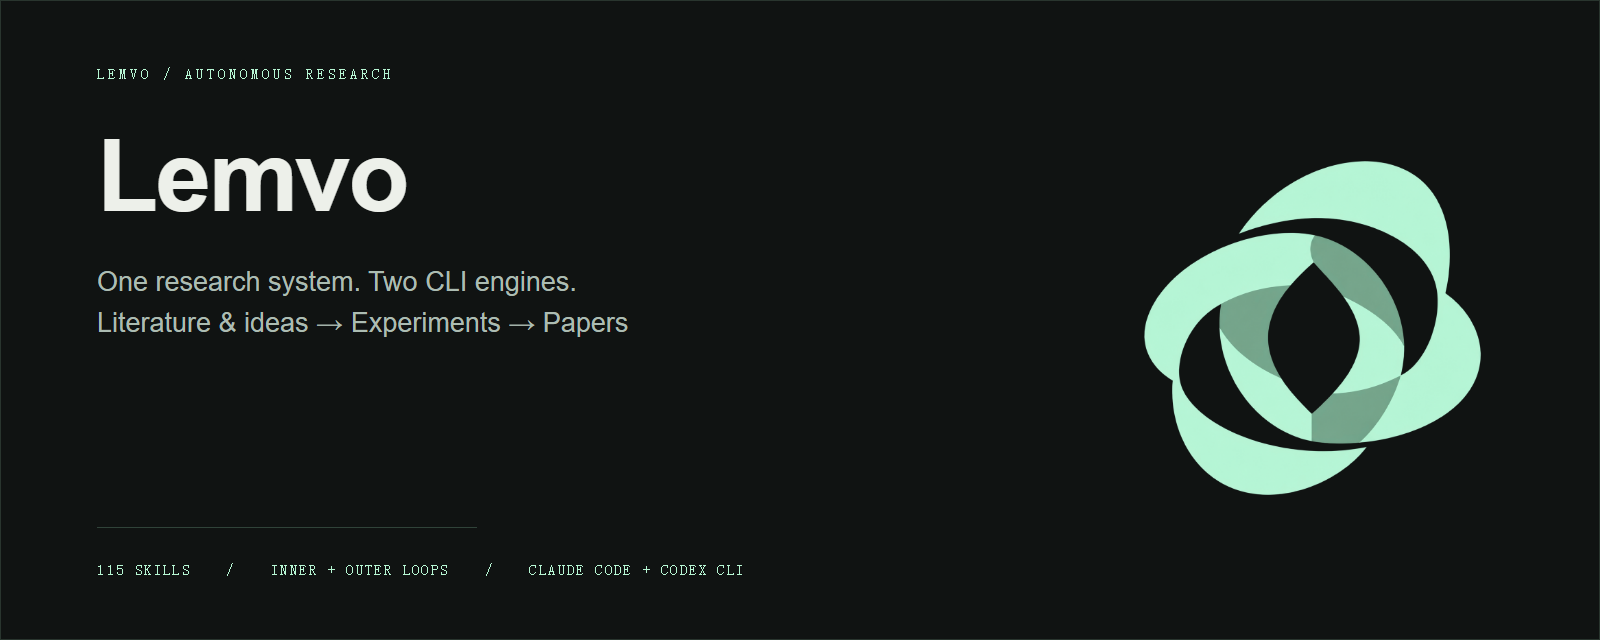
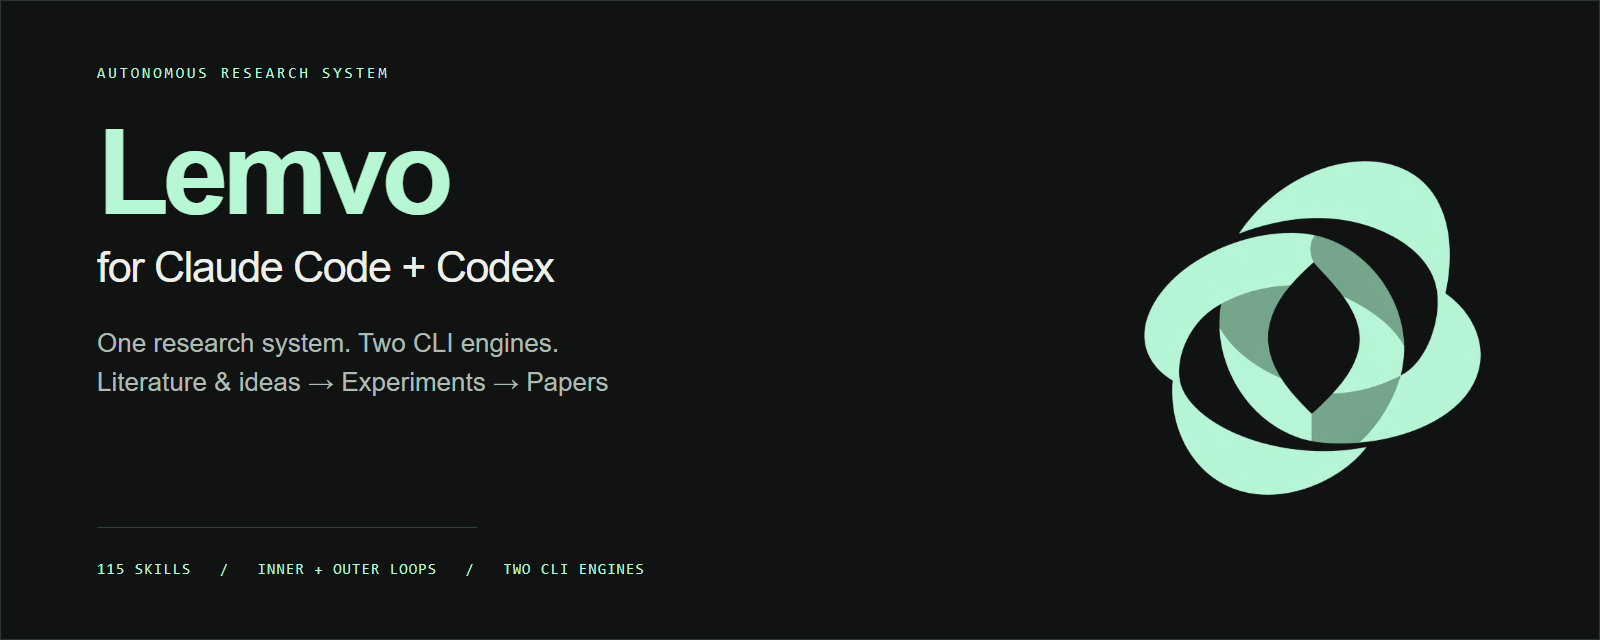
Make Lemvo the primary homepage and product brand

diff --git a/index.html b/index.html
@@ -5,27 +5,27 @@
   <meta name="theme-color" content="#101312">
   <meta name="description" content="Lemvo：一套自主科研体系，两种 CLI 引擎。115 个科研技能，由 Research Orchestrator 协调文献调研、构思、无人值守实验、写作与评审。">
   <meta property="og:title" content="Lemvo — One research system. Two CLI engines.">
-  <meta property="og:description" content="Lemvo powers Claude for Research and Codex for Research: 115 skills connecting literature, ideas, unattended experiments, reflection, and paper writing.">
+  <meta property="og:description" content="Lemvo for Claude Code and Lemvo for Codex share 115 skills connecting literature, ideas, unattended experiments, reflection, and paper writing.">
   <meta property="og:site_name" content="Lemvo">
   <meta property="og:type" content="website">
-  <meta property="og:image" content="https://yichen-zju.github.io/claude-for-research/assets/social-cover.png?v=lemvo-1">
+  <meta property="og:image" content="https://yichen-zju.github.io/claude-for-research/assets/social-cover.png?v=lemvo-primary-2">
   <meta property="og:image:alt" content="Lemvo — One research system. Two CLI engines. The mint dual-loop logo.">
   <meta property="og:image:width" content="1600">
   <meta property="og:image:height" content="640">
   <meta name="twitter:card" content="summary_large_image">
   <meta name="twitter:title" content="Lemvo — One research system. Two CLI engines.">
   <meta name="twitter:description" content="115 research skills. Nested experiment and reflection loops. Claude Code + Codex CLI.">
-  <meta name="twitter:image" content="https://yichen-zju.github.io/claude-for-research/assets/social-cover.png?v=lemvo-1">
+  <meta name="twitter:image" content="https://yichen-zju.github.io/claude-for-research/assets/social-cover.png?v=lemvo-primary-2">
   <meta name="twitter:image:alt" content="Lemvo autonomous research system with the mint dual-loop logo">
   <link rel="canonical" href="https://yichen-zju.github.io/claude-for-research/">
   <title>Lemvo · 让想法，走到发现</title>
   <link rel="icon" type="image/png" href="assets/logo.png">
   <link rel="stylesheet" href="styles.css">
-  <link rel="stylesheet" href="lemnivo-brand.css">
+  <link rel="stylesheet" href="lemvo-brand.css?v=2">
   <link rel="stylesheet" href="research-stages.css">
   <link rel="stylesheet" href="workflow-demo.css">
   <script src="skills-data.js" defer></script>
-  <script src="app.js" defer></script>
+  <script src="app.js?v=lemvo-primary-2" defer></script>
   <script src="workflow-demo.js" defer></script>
 </head>
 <body>
@@ -38,7 +38,8 @@
 <main id="main">
 <section class="hero container">
   <div class="hero-copy"><div class="eyebrow"><span class="status-dot"></span><span data-i18n="heroEyebrow">LEMVO / AUTONOMOUS RESEARCH</span></div>
-  <h1><span data-i18n="heroLine1">让想法，</span><br><span class="mint" data-i18n="heroLine2">走到发现。</span></h1>
+  <h1 class="hero-brand-name">Lemvo</h1>
+  <p class="hero-brand-promise" data-i18n="heroPromise">让想法，走到发现。</p>
   <p class="hero-sub" data-i18n="heroSub">一套自主科研体系，两种 CLI 引擎。</p>
   <p class="hero-description" data-i18n="heroDescription">Lemvo 把 Claude Code 与 Codex CLI 变成自主科研工作台。由 Research Orchestrator 统筹深广度调研、Idea 构思、无人值守模型优化，再到写作与评审；115 个科研技能贯穿实验与反思的内外双循环。</p>
   <div class="hero-actions"><a class="button primary" href="#start"><span data-i18n="getStarted">开始你的研究</span><span aria-hidden="true">↗</span></a><a class="text-link" href="#walkthrough"><span data-i18n="seeLoop">看一遍完整流程</span><span aria-hidden="true">↓</span></a></div>
@@ -134,7 +135,7 @@
 </section>
 <section class="section container" id="engines">
   <div class="section-heading"><div><div class="eyebrow section-number">04 / TWO ENGINES. ONE RESEARCH MINDSET.</div><h2 data-i18n="enginesTitle">选择你的引擎，延续你的研究。</h2></div><p data-i18n="enginesDescription">同源的科研约定与技能设计，分别适配两种 CLI。用熟悉的工具，组织一套完整的研究流程。</p></div>
-  <div class="engine-grid"><article class="engine-card"><div class="engine-icon">✳</div><div><span class="mono-label">LEMVO / CLAUDE CODE</span><h3>Claude for Research <span class="brand-suffix">(Lemvo)</span></h3><p data-i18n="claudeDescription">115 个技能与 4 个专业子代理。用 Claude Code 原生 Agent、技能与会话内心跳，串联研究、实验、写作与评审。</p><a href="https://github.com/Yichen-ZJU/claude-for-research" target="_blank" rel="noopener noreferrer"><span>claude-for-research</span><span>↗</span></a></div></article><article class="engine-card"><div class="engine-icon code-symbol">&gt;_</div><div><span class="mono-label">LEMVO / CODEX CLI</span><h3>Codex for Research <span class="brand-suffix">(Lemvo)</span></h3><p data-i18n="codexDescription">同样的 115 个技能，适配 Codex CLI 的执行方式。后台实验作业、完成标志与项目记忆衔接长任务。</p><a href="https://github.com/Yichen-ZJU/codex-for-research" target="_blank" rel="noopener noreferrer"><span>codex-for-research</span><span>↗</span></a></div></article></div>
+  <div class="engine-grid"><article class="engine-card"><div class="engine-icon">✳</div><div><span class="mono-label">LEMVO / CLAUDE CODE</span><h3><span class="product-brand">Lemvo</span><span class="engine-variant">for Claude Code</span></h3><p data-i18n="claudeDescription">115 个技能与 4 个专业子代理。用 Claude Code 原生 Agent、技能与会话内心跳，串联研究、实验、写作与评审。</p><a href="https://github.com/Yichen-ZJU/claude-for-research" target="_blank" rel="noopener noreferrer"><span>claude-for-research</span><span>↗</span></a></div></article><article class="engine-card"><div class="engine-icon code-symbol">&gt;_</div><div><span class="mono-label">LEMVO / CODEX CLI</span><h3><span class="product-brand">Lemvo</span><span class="engine-variant">for Codex</span></h3><p data-i18n="codexDescription">同样的 115 个技能，适配 Codex CLI 的执行方式。后台实验作业、完成标志与项目记忆衔接长任务。</p><a href="https://github.com/Yichen-ZJU/codex-for-research" target="_blank" rel="noopener noreferrer"><span>codex-for-research</span><span>↗</span></a></div></article></div>
 </section>
 <section class="section container start-section" id="start"><div class="start-copy"><div class="eyebrow section-number">05 / YOUR NEXT QUESTION STARTS HERE</div><h2><span data-i18n="startTitle1">下一次发现，</span><br><span class="mint" data-i18n="startTitle2">从你的终端开始。</span></h2><p data-i18n="startDescription">装好并登录对应 CLI 后，在 Bash 环境中安装研究技能。保留已有配置的备份，然后开启一个新的研究会话。</p><div class="start-meta"><span class="status-dot"></span><span data-i18n="startMeta">源码公开 · 本地工作流 · 自有计算资源</span></div></div><div class="quickstart"><div class="install-tabs" role="tablist" aria-label="Install engine"><button id="install-claude" data-install="claude" role="tab" aria-selected="true" aria-controls="install-panel">Claude Code</button><button id="install-codex" data-install="codex" role="tab" aria-selected="false" tabindex="-1" aria-controls="install-panel">Codex CLI</button><span>BASH</span></div><div role="tabpanel" id="install-panel" aria-labelledby="install-claude"><div class="code-heading"><span data-i18n="installLabel">安装研究技能</span><button class="copy-button" id="copy-install" data-i18n="copy">复制</button></div><pre><code id="install-code"></code></pre><p class="install-note" data-i18n="installNote">这三行安装技能与研究约定。全文检索需另行配置 ArXiv MCP。</p><details id="mcp-details"><summary data-i18n="mcpSetup">配置 ArXiv MCP 全文检索</summary><p data-i18n="mcpNote">先安装 Python 与 pip；以下使用默认用户安装路径。Codex 需先启动一次以生成配置。</p><pre><code id="mcp-code"></code></pre><p data-i18n="mcpCheck">重启 CLI 并检查 arxiv 工具已加载。自定义安装路径需相应调整。</p></details><div class="first-prompt"><div class="mono-label" data-i18n="firstPromptLabel">然后，把第一个问题交给它</div><p data-i18n="firstPrompt">使用 research-orchestrator 开始研究：我的问题是……，可用预算是……，请先建立研究计划和评估标准。</p></div></div></div></section>
 <section class="container evidence-section" id="evidence"><details><summary><span data-i18n="evidenceTitle">来源与演示说明</span><span>＋</span></summary><div class="evidence-details"><p data-i18n="evidenceNote">技能数量核对于 2026-10-07：Claude 仓库 6582cc4，Codex 仓库 510c6d4，均包含相同的 115 个技能名称。终端动画是流程示意，12 组为本站的主题分类。</p><p data-i18n="autonomyNote">自主推进依赖已确认的课题、运行环境、预算及持续运行的 CLI 会话。两边技能名单相同，执行机制与部分流程细节按宿主适配。正式研究仍需研究者核验结论。</p><div class="evidence-links"><a href="https://github.com/Yichen-ZJU/claude-for-research/tree/6582cc4009522269e77becc6dbddb6b1a14e4500/skills" target="_blank" rel="noopener noreferrer">Claude · 6582cc4 ↗</a><a href="https://github.com/Yichen-ZJU/codex-for-research/tree/510c6d4652ff1c39e65b19b9e124b9f34281e2cb/skills" target="_blank" rel="noopener noreferrer">Codex · 510c6d4 ↗</a></div></div></details></section>

diff --git a/lemvo-brand.css b/lemvo-brand.css
@@ -1,0 +1,6 @@
+.hero .eyebrow{color:var(--mint);font-size:12px;letter-spacing:2px}
+.hero h1.hero-brand-name,html[lang=en] .hero h1.hero-brand-name{font-size:clamp(88px,8.5vw,128px);letter-spacing:-6px;line-height:1.05;margin:24px 0 12px;color:var(--mint)}
+.hero-brand-promise{font-size:clamp(25px,2.5vw,35px);font-weight:500;letter-spacing:-.7px;line-height:1.35;margin:0 0 23px;color:var(--text)}
+.engine-card h3 .product-brand{display:block;font-size:36px;line-height:1.1;letter-spacing:-1.2px;color:var(--mint)}
+.engine-card h3 .engine-variant{display:block;font-size:22px;font-weight:500;line-height:1.3;letter-spacing:-.4px;margin-top:7px;color:var(--text)}
+@media(max-width:420px){.hero .eyebrow{font-size:10px;letter-spacing:1.4px}.hero h1.hero-brand-name,html[lang=en] .hero h1.hero-brand-name{font-size:88px;letter-spacing:-4px;margin-top:22px}.hero-brand-promise{font-size:24px;letter-spacing:-.6px}.engine-card h3 .product-brand{font-size:32px}.engine-card h3 .engine-variant{font-size:20px}}

diff --git a/app.js b/app.js
@@ -1,5 +1,6 @@
 'use strict';
 const english={
+heroPromise:'From an idea. To a discovery.',
 coordinationOwner:"Coordinated work · Shared research state",
 stagePrepare:"Research & ideation",
 stageOptimize:"Experiments & optimization",
